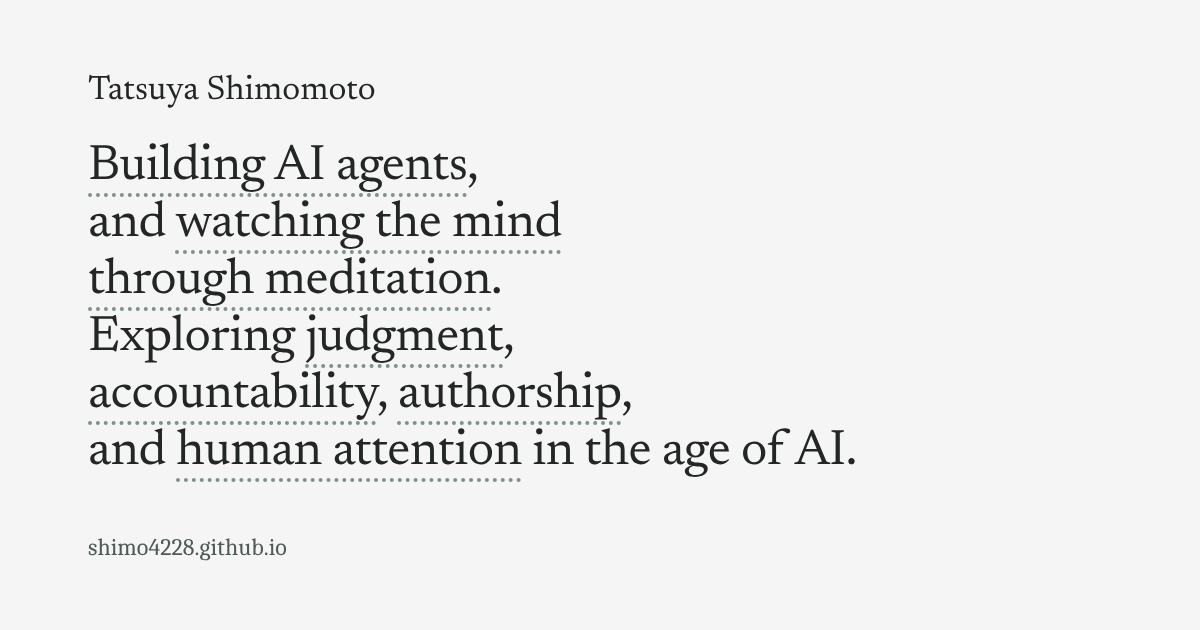
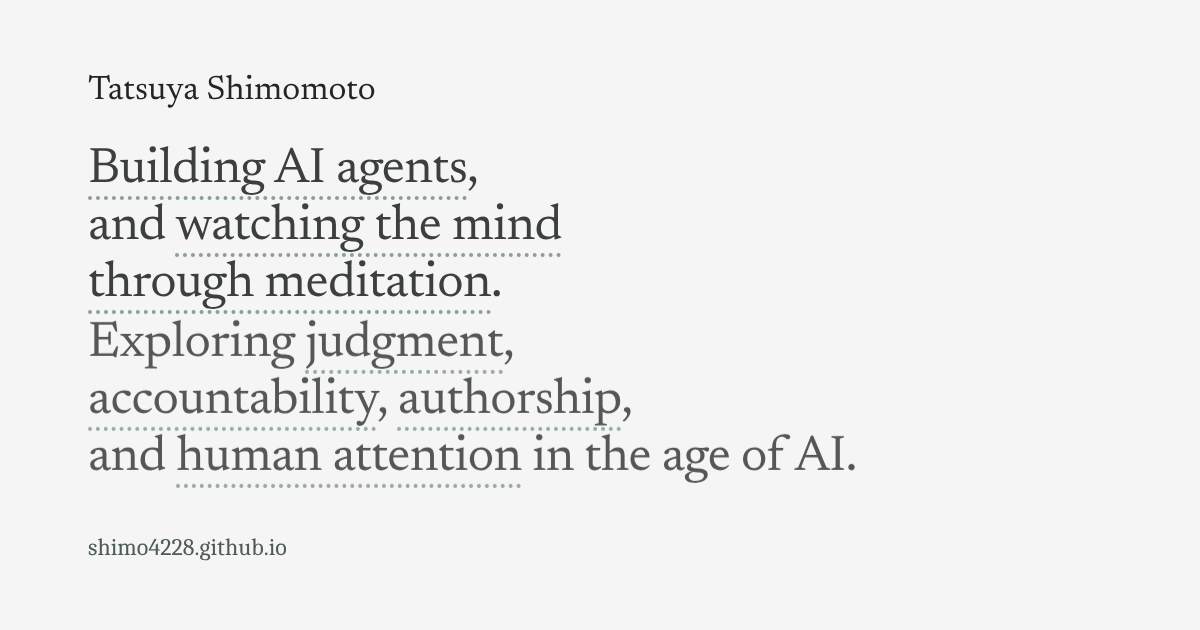
Build: opening rises in on load; parallax as the page scrolls past it
Built from source commit 295f8e8.

Claude-Session: https://claude.ai/code/session_017WmoS2143ZVSEDbws4Larm

Changed region(s): [[0.0617, 0.2111, 0.7092, 0.7841]]

diff --git a/site.css b/site.css
@@ -1007,6 +1007,49 @@ a {
   }
 }
 
+/* Opening: the name, then the sentence one line at a time, rise into place once as the page loads (竜也, 2026-10-18:
+   「クオリティ感を少しだけ」). Under a second in all; nothing waits on it, and links work while it plays. */
+@media screen and (prefers-reduced-motion: no-preference) {
+  .intro .name,
+  .sentence .line {
+    animation: open 0.9s cubic-bezier(0.2, 0.6, 0.2, 1) both;
+  }
+
+  .sentence .line:nth-child(1) { animation-delay: 0.12s; }
+  .sentence .line:nth-child(2) { animation-delay: 0.24s; }
+  .sentence .line:nth-child(3) { animation-delay: 0.36s; }
+  .sentence .line:nth-child(4) { animation-delay: 0.48s; }
+
+  /* Parallax: as the page scrolls past the opening, the sentence drifts a little slower than the page and dims, so
+     the commentary below slides over it. Gone by the time the first section reaches the top. */
+  @supports (animation-timeline: scroll()) {
+    .intro {
+      animation: drift linear both;
+      animation-timeline: scroll(root);
+      animation-range: 0 85vh;
+    }
+
+    .intro ~ * {
+      position: relative;
+      z-index: 1;
+    }
+  }
+}
+
+@keyframes open {
+  from {
+    opacity: 0;
+    translate: 0 0.5em;
+  }
+}
+
+@keyframes drift {
+  to {
+    opacity: 0.2;
+    translate: 0 14vh;
+  }
+}
+
 @media (forced-colors: active) {
   .work:target::before,
   .gloss:target > .section-title::before {
